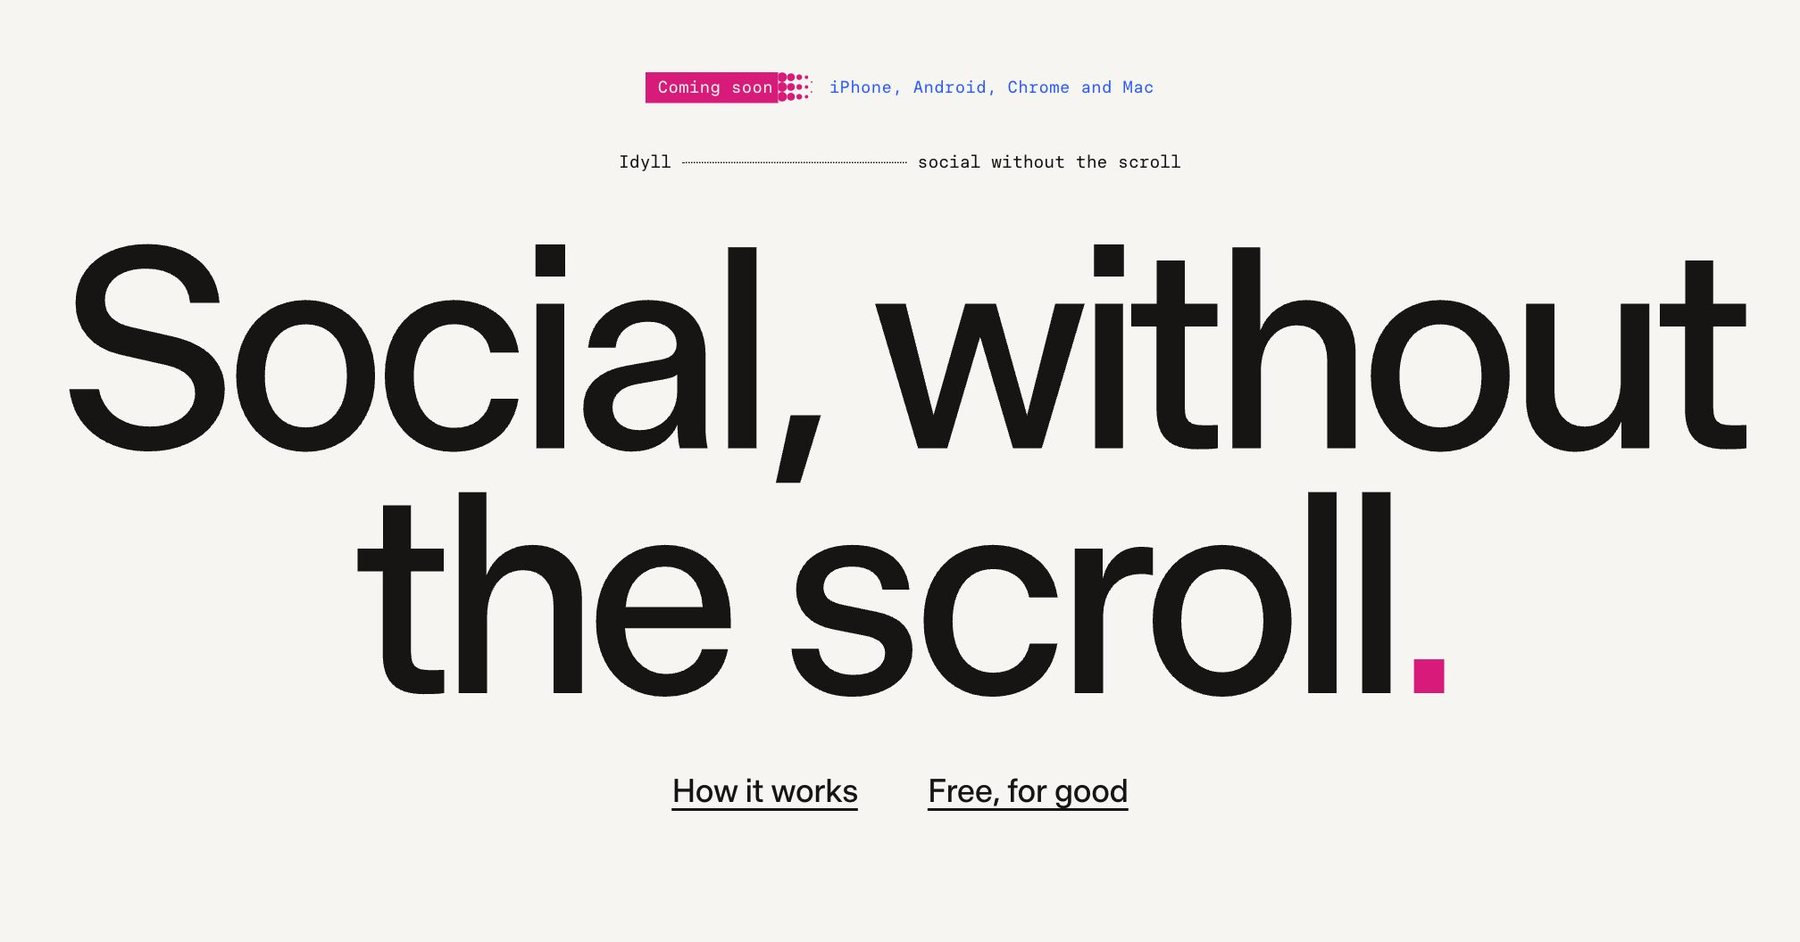
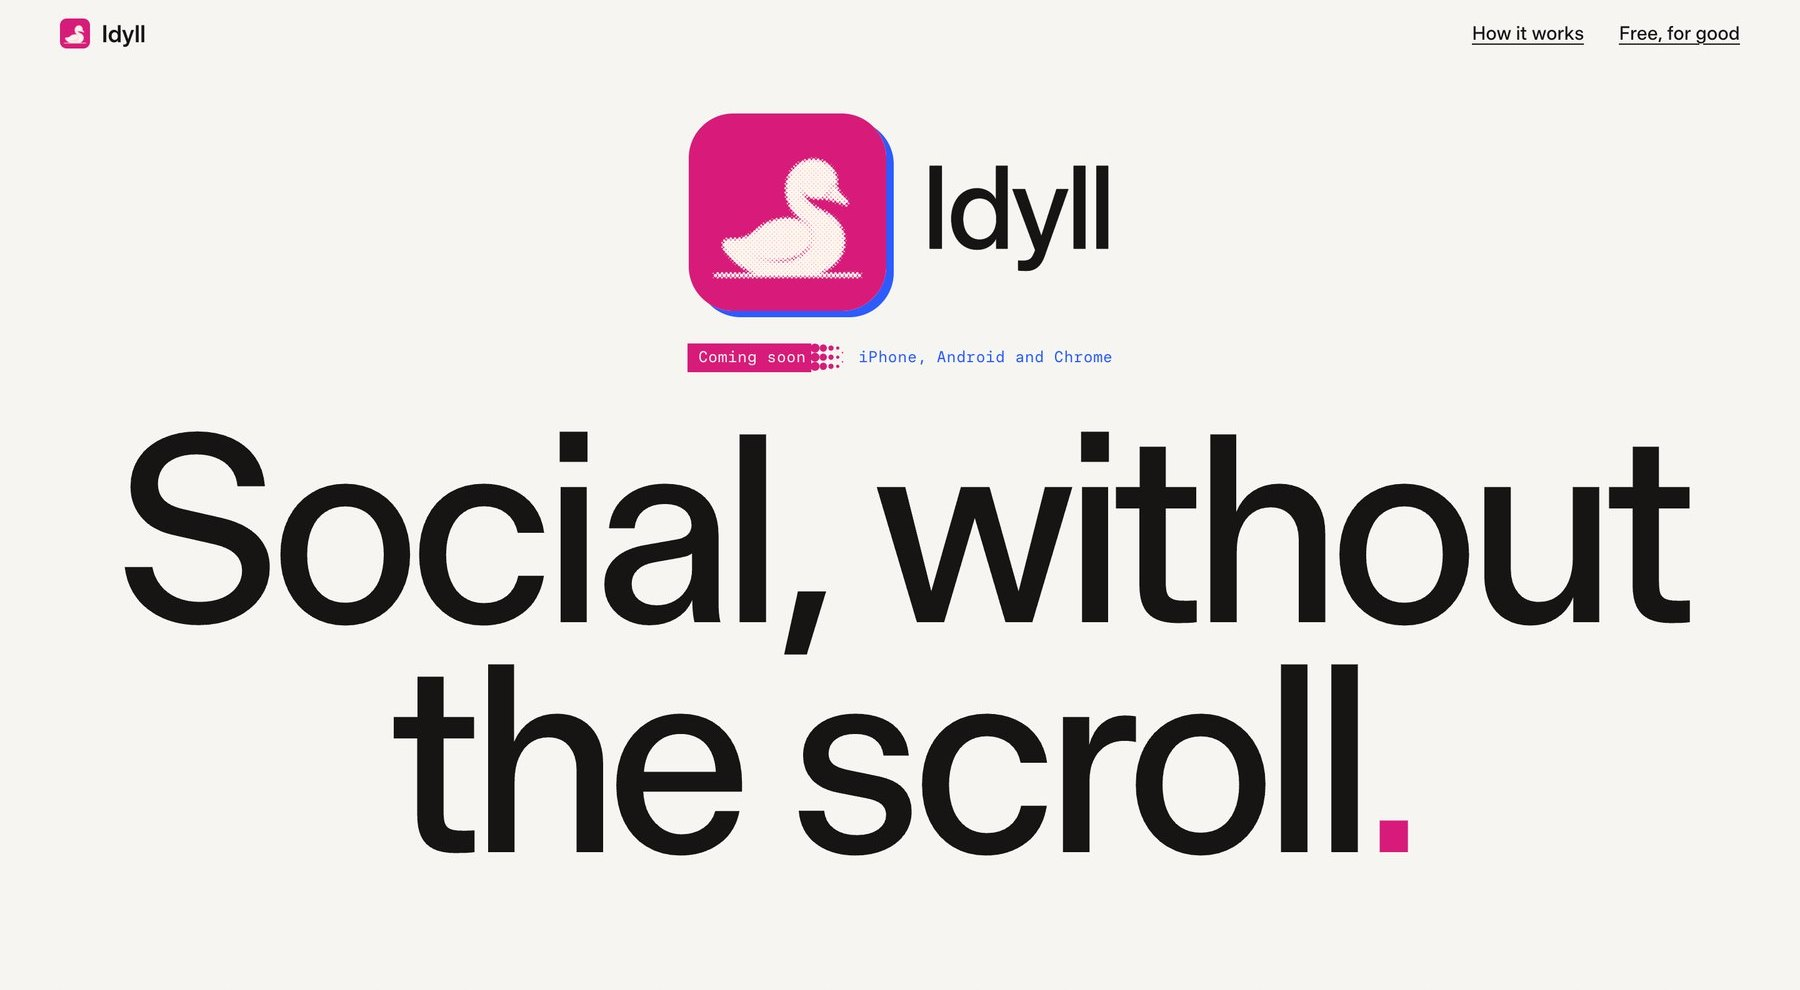
README: the current four-section page

diff --git a/README.md b/README.md
@@ -2,50 +2,55 @@
 
 <h1 align="center">Idyll</h1>
 
-<p align="center"><b>Social, without the scroll.</b><br>The website for Idyll: the feeds out of nine social apps, your friends kept in.</p>
+<p align="center"><b>Social, without the scroll.</b><br>The website for Idyll: the feeds out of ten social apps, Discord rested with them, your friends kept in.</p>
 
 <p align="center">
 <a href="https://eoinforker.github.io/idyll-site/">Live site</a> ·
-<a href="https://eoinforker.github.io/idyll-site/v2/app/final/final.html">App design</a> ·
+<a href="https://eoinforker.github.io/idyll-site/privacy.html">Privacy</a> ·
+<a href="https://eoinforker.github.io/idyll-site/support.html">Support</a> ·
 <a href="#whats-here">What's here</a> ·
 <a href="#working-on-it">Working on it</a>
 </p>
 
-<p align="center"><img src="docs/site-hero.jpg" alt="The Idyll home page: a quiet paper page with a magenta Coming soon tag and a huge black headline, Social, without the scroll, ending in a magenta full stop, with two underlined links beneath" width="900"></p>
+<p align="center"><img src="docs/site-hero.jpg" alt="The top of the Idyll home page: the magenta cygnet icon beside the word Idyll, a Coming soon tag for iPhone, Android and Chrome, and the headline Social, without the scroll, ending in a magenta full stop" width="900"></p>
 
 ## What it is
 
-The public site for [Idyll](https://github.com/eoinforker/idyll), a free app that takes the ads, Shorts, Reels and algorithmic feeds out of YouTube, Instagram, Facebook, X, Snapchat, TikTok, Reddit, LinkedIn and Threads, and keeps messages, search and whatever a friend sends you.
+The public site for [Idyll](https://github.com/eoinforker/idyll), a free app that takes the short video, the algorithmic feeds and the ads out of YouTube, Instagram, Facebook, X, Snapchat, TikTok, Reddit, LinkedIn, Threads and Substack, keeps messages, search and whatever a friend sends you, and rests Discord along with them during Sleep and Focus.
 
-It is one static page, hand built, with no framework, no build step, no analytics and no cookies. Live at [eoinforker.github.io/idyll-site](https://eoinforker.github.io/idyll-site/) on GitHub Pages until the domain is bought.
+It is a static page, hand built, with no framework, no build step, no analytics and no cookies, plus a privacy page and a support page. Live at [eoinforker.github.io/idyll-site](https://eoinforker.github.io/idyll-site/) on GitHub Pages until the domain is bought.
 
-Status, 11 October 2026: the home page is final. The apps are not in any store yet, so the page says coming soon.
-
-<p align="center"><img src="docs/site-plate.jpg" alt="The magenta plate: a cream halftone cygnet on the left; on the right, the nine apps' marks printed in halftone and struck through in blue with what goes from each, above a cream Stays window listing messages, search, subscriptions, following and the video a friend sent" width="900"></p>
+The apps are not in any store yet, so the page says coming soon.
 
 ## The page
 
-- **Quiet paper, then one loud plate, then night.** Paper and ink with Timeless Sans set tight, a magenta full stop, and underlined links instead of buttons.
-- **The plate.** The cygnet is drawn live on a canvas as halftone dots that print on as you arrive. The nine apps' marks are printed the same way and struck through, with what Idyll removes from each.
-- **The same feed, twice.** Two phones scroll the same Instagram-style feed at real speed. One never ends. The other ends at You're all caught up.
-- **Free. For good.** On the night field, with the trademark line.
+Four sections, paper first, then one loud plate, then colour, then night.
+
+- **The mark.** The cygnet icon and the name, the Coming soon tag, and Social, without the scroll in Timeless Sans with a magenta full stop.
+- **Feed is for swans.** On the magenta plate, a cygnet at the grains is printed live on a canvas as halftone dots, with the grains in a second ink. Beside it, each app's mark is printed the same way and struck through in blue, with what goes from it, and Discord with a lighter strike, paused for Sleep and Focus. Under that, what stays, the two ways in (the real app with a guard, or a clean version in Idyll), and that videos and podcasts keep playing with the phone locked.
+- **Focus and Sleep.** Two halves, blue and night, each with a screen rendered from the Android app with sample data.
+- **Free. For good.** On the night field, with the Ko-fi link, the privacy promise and the trademark line.
+
+<p align="center"><img src="docs/site-plate.jpg" alt="The magenta plate: the cream halftone cygnet bending to blue grains and Feed is for swans; on the right, eleven app marks printed in halftone and struck through in blue with what goes from each, Discord marked Paused for Sleep and Focus, above a cream Stays window" width="900"></p>
+
+<p align="center"><img src="docs/site-duo.jpg" alt="Focus on blue beside Sleep on night: Focus. A short break. Again., with the Focus setup screen; Phones rest at night too, with the Sleep setup screen" width="900"></p>
 
 It works from 360 to 1920 pixels wide, honours reduced motion, and has no horizontal scroll at any width.
-
-<p align="center"><img src="docs/site-phones.jpg" alt="Two iPhones side by side: Without Idyll shows a suggested reel and a sponsored post in an Instagram-style feed; With Idyll shows only friends' posts" width="720"></p>
 
 ## What's here
 
 ```
-index.html          the home page (everything inline: styles, the halftone printer, the phones)
-fonts.css, fonts/   Timeless Sans, Timeless Serif and Paper Mono
-img/                the app icons (magenta, blue, black), brand marks, photos for the mocks
-v2/app/             the app design: four directions and the final design with its engineering spec
-v2/                 earlier site directions, kept for reference
-v1/                 the first round
+index.html            the home page (everything inline: styles and the halftone printer)
+privacy.html          the privacy policy
+support.html          support and the Ko-fi link
+fonts.css, fonts/     Timeless Sans, Timeless Serif and Paper Mono
+img/                  the app icons, the cygnet poses, brand marks, and the app screens (img/screens)
+v2/app/               the app design: four directions and the final design with its engineering spec
+v2/, v1/, 1-5 dirs    earlier site directions, kept for reference
+docs/                 this README's images and the logo
 ```
 
-Photos are from Unsplash via picsum, with no faces. Brand marks are the official ones from Simple Icons, used to name the apps Idyll works with. Idyll isn't affiliated with any of them.
+Brand marks are the official ones from Simple Icons (CC0), printed as our own halftone and used only to name the apps Idyll works with. Idyll isn't affiliated with any of them. The screens in `img/screens` are rendered from the Android app's own code (see the app repo's README), so their numbers are sample data.
 
 ## Working on it
 
